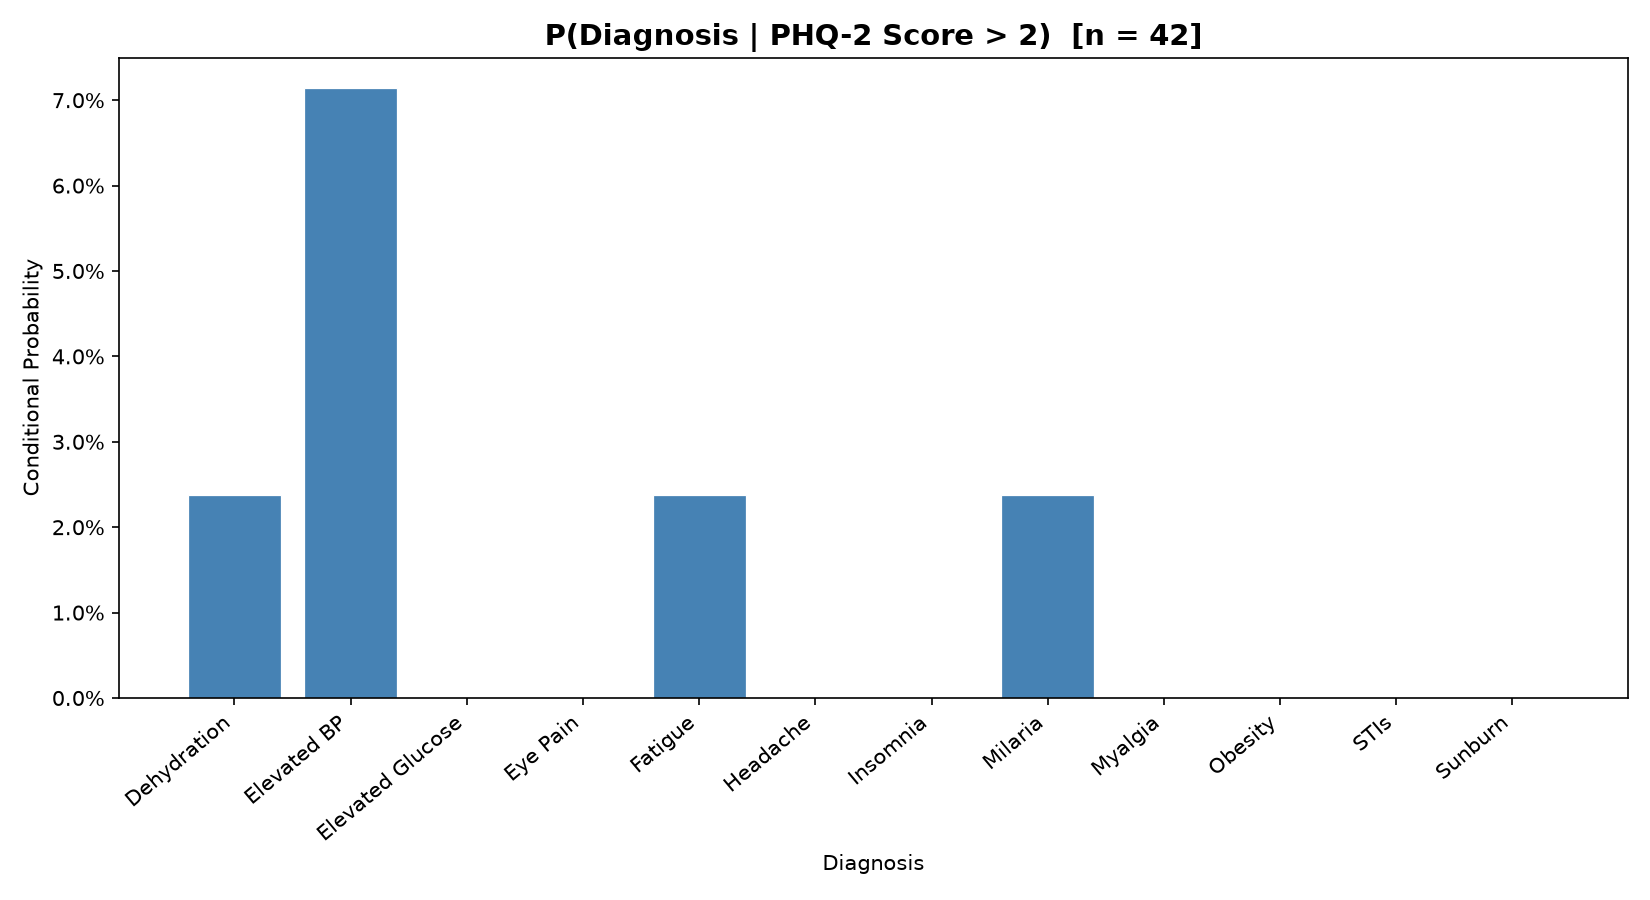
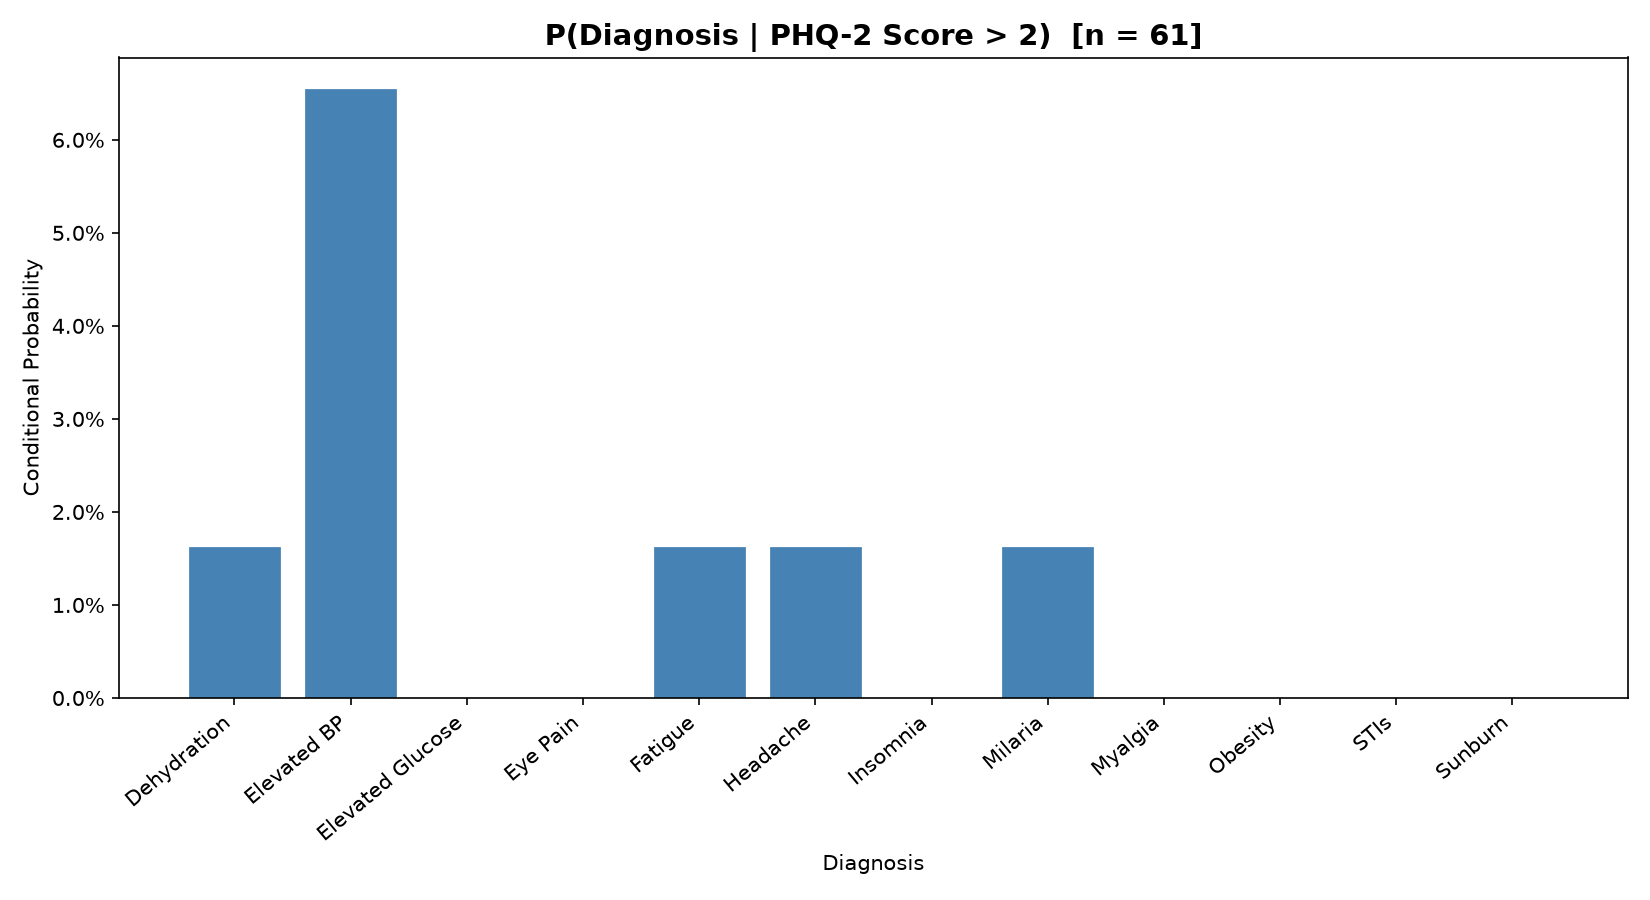
Update slide deck for the weighted, age-matched analysis
Refresh every figure in slides.html to the current 2024-2026 adult (18+)
dataset and regenerate the care-gap and co-occurrence charts:

- FWFHP positives 42 -> 61 (3.2% of 1,889 adults); negatives 1,828.
- NHANES comparison now survey-weighted: 13.9% (was 13.0% unweighted),
  OR 0.21 (95% CI 0.155-0.275), design-aware z = -10.75, p = 5.7e-27.
- Care gap: 59/61 never diagnosed (96.7%), rate 3.3% (CI 0.4-11.3%).
- Diagnosis table: reflect the 5 mood/anxiety dx now in the cohort.
- Co-occurrence captions/ORs and regression table updated (n=61 vs 1,835;
  Male OR 0.33, p=0.002; N=1,827; JR Baker added; Transgender excluded).
- Corrected NHANES cycle label (L files = 2021-2023, not 2023-24) and
  bumped deck date to July 2026.

diff --git a/slides.html b/slides.html
@@ -3,7 +3,7 @@
 <head>
     <meta charset="UTF-8">
     <meta name="viewport" content="width=device-width, initial-scale=1.0">
-    <title>FWFHP — PHQ-2 Screening Analysis, June 2026</title>
+    <title>FWFHP — PHQ-2 Screening Analysis, July 2026</title>
     <link rel="preconnect" href="https://fonts.googleapis.com">
     <link href="https://fonts.googleapis.com/css2?family=Lora:ital,wght@0,400;0,600;0,700;1,400;1,600&family=Jost:wght@300;400;500;600&display=swap" rel="stylesheet">
     <style>
@@ -581,10 +581,10 @@ img, video, canvas, svg { max-width: 100%; max-height: 100%; }
     <p class="t-kicker reveal">Farm Worker Family Health Program</p>
     <div class="t-rule reveal"></div>
     <h1 class="reveal">PHQ-2 Mental Health<br>Screening Analysis</h1>
-    <p class="t-subtitle reveal">Night Camp Data &mdash; June 2026</p>
+    <p class="t-subtitle reveal">Night Camp Data &mdash; July 2026</p>
     <div class="t-pills reveal">
-        <span class="t-pill">n&nbsp;=&nbsp;1,501 patients</span>
-        <span class="t-pill">NHANES 2023–24 Hispanic Reference</span>
+        <span class="t-pill">n&nbsp;=&nbsp;2,074 records &middot; 1,889 adults</span>
+        <span class="t-pill">NHANES 2021–23 Hispanic Reference</span>
         <span class="t-pill">FWFHP Program &middot; Moultrie, GA</span>
     </div>
 </section>
@@ -606,8 +606,8 @@ img, video, canvas, svg { max-width: 100%; max-height: 100%; }
                 <div class="context-bullets">
                     <p class="context-bullet"><strong>FWFHP</strong> is a night clinic serving migrant farmworkers in Moultrie, GA — a population with limited access to routine healthcare</p>
                     <p class="context-bullet">The <strong>PHQ-2</strong> is a two-question depression screening tool. A score &gt; 2 is the clinical threshold for possible depressive symptoms</p>
-                    <p class="context-bullet">Clinical data was collected via <strong>REDCap</strong> from 1,501 patients across 8 farm camps during the 2026 season</p>
-                    <p class="context-bullet"><strong>NHANES 2023–24</strong> provides a national Hispanic reference cohort (n&nbsp;=&nbsp;1,095) for comparison</p>
+                    <p class="context-bullet">Clinical data was collected via <strong>REDCap</strong> from 2,074 records (1,889 adults) across 9 farm camps over the 2024–2026 seasons</p>
+                    <p class="context-bullet"><strong>NHANES 2021–23</strong> provides a national Hispanic-adult reference (n&nbsp;=&nbsp;912 screened), survey-weighted for comparison</p>
                 </div>
             </div>
             <div class="context-col reveal">
@@ -625,7 +625,7 @@ img, video, canvas, svg { max-width: 100%; max-height: 100%; }
         </div>
     </div>
     <footer class="slide-footer">
-        <span>Farm Worker Family Health Program &middot; PHQ-2 Screening Analysis &middot; June 2026</span>
+        <span>Farm Worker Family Health Program &middot; PHQ-2 Screening Analysis &middot; July 2026</span>
         <div class="progress-bar" style="width:8%"></div>
     </footer>
 </section>
@@ -644,21 +644,21 @@ img, video, canvas, svg { max-width: 100%; max-height: 100%; }
         <div class="stat-row">
             <div class="stat-card red reveal">
                 <p class="sc-label">Positive Screen &mdash; PHQ-2 &gt; 2</p>
-                <p class="sc-num">42</p>
-                <p class="sc-pct">2.8% of patients</p>
+                <p class="sc-num">61</p>
+                <p class="sc-pct">3.2% of adults</p>
                 <p class="sc-desc">Screened positive for<br>depressive symptoms</p>
             </div>
             <div class="stat-vs reveal"></div>
             <div class="stat-card blue reveal">
                 <p class="sc-label">Negative Screen &mdash; PHQ-2 &le; 2</p>
-                <p class="sc-num">1,459</p>
-                <p class="sc-pct">97.2% of patients</p>
+                <p class="sc-num">1,828</p>
+                <p class="sc-pct">96.8% of adults</p>
                 <p class="sc-desc">Below the clinical<br>concern threshold</p>
             </div>
         </div>
     </div>
     <footer class="slide-footer">
-        <span>Farm Worker Family Health Program &middot; PHQ-2 Screening Analysis &middot; June 2026</span>
+        <span>Farm Worker Family Health Program &middot; PHQ-2 Screening Analysis &middot; July 2026</span>
         <div class="progress-bar" style="width:15%"></div>
     </footer>
 </section>
@@ -676,29 +676,29 @@ img, video, canvas, svg { max-width: 100%; max-height: 100%; }
     <div class="slide-body">
         <div class="nhanes-grid">
             <div class="chart-wrap reveal">
-                <img src="charts/chart_nhanes_ci.png" alt="Bar chart with 95% CI error bars comparing PHQ-2 positive rate: FWFHP 2.8% vs NHANES Hispanic 13.0%">
+                <img src="charts/chart_nhanes_ci.png" alt="Bar chart with 95% CI error bars comparing PHQ-2 positive rate: FWFHP 3.2% vs NHANES Hispanic adults 13.9% (survey-weighted)">
             </div>
             <div class="nhanes-sidebar">
                 <div class="stat-chip highlight reveal">
                     <p class="chip-label">Odds Ratio</p>
-                    <p class="chip-val">0.193</p>
-                    <p class="chip-sub">95% CI: 0.136 – 0.275</p>
+                    <p class="chip-val">0.21</p>
+                    <p class="chip-sub">95% CI: 0.155 – 0.275</p>
                 </div>
                 <div class="stat-chip reveal">
                     <p class="chip-label">Significance</p>
-                    <p class="chip-val">p = 2.0 &times; 10<sup>&minus;23</sup></p>
-                    <p class="chip-sub">Two-proportion z-test, z = &minus;9.97</p>
+                    <p class="chip-val">p = 5.7 &times; 10<sup>&minus;27</sup></p>
+                    <p class="chip-sub">Design-aware z-test, z = &minus;10.75</p>
                 </div>
                 <div class="stat-chip reveal">
                     <p class="chip-label">Interpretation</p>
-                    <p class="chip-val" style="font-size:26px;color:var(--text-primary)">~5&times; less likely</p>
-                    <p class="chip-sub">FWFHP patients screen positive at far lower rates than the national Hispanic average (2.8% vs. 13.0%)</p>
+                    <p class="chip-val" style="font-size:26px;color:var(--text-primary)">~5&times; lower odds</p>
+                    <p class="chip-sub">FWFHP adults screen positive at far lower rates than the survey-weighted national Hispanic-adult average (3.2% vs. 13.9%)</p>
                 </div>
             </div>
         </div>
     </div>
     <footer class="slide-footer">
-        <span>Farm Worker Family Health Program &middot; PHQ-2 Screening Analysis &middot; June 2026</span>
+        <span>Farm Worker Family Health Program &middot; PHQ-2 Screening Analysis &middot; July 2026</span>
         <div class="progress-bar" style="width:23%"></div>
     </footer>
 </section>
@@ -716,24 +716,24 @@ img, video, canvas, svg { max-width: 100%; max-height: 100%; }
     <div class="slide-body">
         <div class="caregap-grid">
             <div class="caregap-img-wrap reveal" style="display:flex;align-items:center;">
-                <img src="charts/chart_care_gap.png" alt="Stacked bar showing 41 of 42 PHQ-2 positive patients never received a formal mental health diagnosis" style="max-height:340px;max-width:100%;border-radius:8px;box-shadow:0 4px 20px rgba(0,0,0,0.08);">
+                <img src="charts/chart_care_gap.png" alt="Stacked bar showing 59 of 61 PHQ-2 positive patients never received a formal mental health diagnosis" style="max-height:340px;max-width:100%;border-radius:8px;box-shadow:0 4px 20px rgba(0,0,0,0.08);">
             </div>
             <div class="caregap-sidebar">
                 <div class="big-stat reveal">
-                    <p class="bs-num">97.6%</p>
+                    <p class="bs-num">96.7%</p>
                     <p class="bs-label">of PHQ-2 positive patients<br>never formally diagnosed</p>
                 </div>
                 <div class="insight-box reveal">
-                    <p>41 of 42 patients who screened positive for depression received <strong>no mental health diagnosis</strong> — despite a clinical trigger on the PHQ-2.</p>
+                    <p>59 of 61 patients who screened positive for depression received <strong>no mental health diagnosis</strong> — despite a clinical trigger on the PHQ-2.</p>
                 </div>
                 <div class="insight-box reveal" style="border-left-color:var(--text-muted);">
-                    <p>Formal diagnosis rate: <strong>2.4%</strong><br><span style="color:var(--text-secondary);font-size:19px;">(95% CI: 0.1% – 12.6%, Clopper-Pearson)</span></p>
+                    <p>Formal diagnosis rate: <strong>3.3%</strong><br><span style="color:var(--text-secondary);font-size:19px;">(95% CI: 0.4% – 11.3%, Clopper-Pearson)</span></p>
                 </div>
             </div>
         </div>
     </div>
     <footer class="slide-footer">
-        <span>Farm Worker Family Health Program &middot; PHQ-2 Screening Analysis &middot; June 2026</span>
+        <span>Farm Worker Family Health Program &middot; PHQ-2 Screening Analysis &middot; July 2026</span>
         <div class="progress-bar" style="width:31%"></div>
     </footer>
 </section>
@@ -741,10 +741,10 @@ img, video, canvas, svg { max-width: 100%; max-height: 100%; }
 <!-- ======================================================
      SLIDE 6 — DEPRESSION & ANXIETY DIAGNOSES TABLE
      ====================================================== -->
-<section class="slide" aria-label="Depression and anxiety diagnosis counts across all 1,501 patients">
+<section class="slide" aria-label="Depression and anxiety diagnosis counts across all 1,896 screened patients">
     <header class="slide-header">
         <span class="wordmark">FWFHP</span>
-        <h2 class="slide-title">Depression &amp; Anxiety Diagnoses Recorded (N&nbsp;=&nbsp;1,501)</h2>
+        <h2 class="slide-title">Depression &amp; Anxiety Diagnoses Recorded (N&nbsp;=&nbsp;1,896)</h2>
         <span class="slide-num">06 / 13</span>
     </header>
     <div class="header-rule"></div>
@@ -764,11 +764,11 @@ img, video, canvas, svg { max-width: 100%; max-height: 100%; }
                     </tr>
                     <tr>
                         <td>F32.1 — Moderate Major Depressive Disorder</td>
-                        <td class="count c0">0</td>
+                        <td class="count c1">2</td>
                     </tr>
                     <tr>
                         <td>F32.2 — Severe Major Depressive Disorder</td>
-                        <td class="count c0">0</td>
+                        <td class="count c1">1</td>
                     </tr>
                     <tr>
                         <td>F32.0 — MDD with Psychotic Features</td>
@@ -776,17 +776,17 @@ img, video, canvas, svg { max-width: 100%; max-height: 100%; }
                     </tr>
                     <tr>
                         <td>F41.1 — Generalized Anxiety Disorder</td>
-                        <td class="count c0">0</td>
+                        <td class="count c1">1</td>
                     </tr>
                 </tbody>
             </table>
         </div>
         <p class="reveal" style="font-family:var(--font-body);font-size:22px;font-weight:300;font-style:italic;color:var(--text-muted);margin-top:36px;text-align:center;">
-            42 patients screened positive for depressive symptoms. Only 1 was formally diagnosed. Among the 1,459 who screened negative: zero diagnoses.
+            61 patients screened positive for depressive symptoms; only 2 were formally diagnosed (1 mild, 1 moderate MDD). Just 5 depression/anxiety diagnoses appear in the entire cohort of 1,896.
         </p>
     </div>
     <footer class="slide-footer">
-        <span>Farm Worker Family Health Program &middot; PHQ-2 Screening Analysis &middot; June 2026</span>
+        <span>Farm Worker Family Health Program &middot; PHQ-2 Screening Analysis &middot; July 2026</span>
         <div class="progress-bar" style="width:38%"></div>
     </footer>
 </section>
@@ -818,7 +818,7 @@ img, video, canvas, svg { max-width: 100%; max-height: 100%; }
         </div>
     </div>
     <footer class="slide-footer">
-        <span>Farm Worker Family Health Program &middot; PHQ-2 Screening Analysis &middot; June 2026</span>
+        <span>Farm Worker Family Health Program &middot; PHQ-2 Screening Analysis &middot; July 2026</span>
         <div class="progress-bar" style="width:46%"></div>
     </footer>
 </section>
@@ -838,11 +838,11 @@ img, video, canvas, svg { max-width: 100%; max-height: 100%; }
             <div class="chart-wrap reveal">
                 <img src="charts/chart1_p_high_phq2.png" alt="Bar chart: conditional probability of each physical diagnosis among the 42 patients with PHQ-2 greater than 2">
             </div>
-            <p class="chart-caption reveal">Conditional probability of each physical diagnosis among the <strong>42 patients</strong> who screened positive (PHQ-2 &gt; 2). Elevated BP is the most common co-occurring condition at 7.1%.</p>
+            <p class="chart-caption reveal">Conditional probability of each physical diagnosis among the <strong>61 patients</strong> who screened positive (PHQ-2 &gt; 2). Elevated BP is the most common co-occurring condition at 6.6%.</p>
         </div>
     </div>
     <footer class="slide-footer">
-        <span>Farm Worker Family Health Program &middot; PHQ-2 Screening Analysis &middot; June 2026</span>
+        <span>Farm Worker Family Health Program &middot; PHQ-2 Screening Analysis &middot; July 2026</span>
         <div class="progress-bar" style="width:54%"></div>
     </footer>
 </section>
@@ -863,14 +863,14 @@ img, video, canvas, svg { max-width: 100%; max-height: 100%; }
                 <img src="charts/chart2_comparison.png" alt="Grouped bar chart comparing conditional probability of each diagnosis between PHQ-2 above 2 and PHQ-2 at or below 2">
             </div>
             <p class="chart-caption reveal">
-                <span style="color:var(--accent-red);font-style:normal;font-weight:500;">Red = PHQ-2 &gt; 2 (n=42)</span> &nbsp;&middot;&nbsp;
-                <span style="color:var(--accent-blue);font-style:normal;font-weight:500;">Blue = PHQ-2 &le; 2 (n=1,356)</span> &nbsp;&middot;&nbsp;
+                <span style="color:var(--accent-red);font-style:normal;font-weight:500;">Red = PHQ-2 &gt; 2 (n=61)</span> &nbsp;&middot;&nbsp;
+                <span style="color:var(--accent-blue);font-style:normal;font-weight:500;">Blue = PHQ-2 &le; 2 (n=1,835)</span> &nbsp;&middot;&nbsp;
                 No diagnosis reached statistical significance after Benjamini-Hochberg FDR correction — results are hypothesis-generating.
             </p>
         </div>
     </div>
     <footer class="slide-footer">
-        <span>Farm Worker Family Health Program &middot; PHQ-2 Screening Analysis &middot; June 2026</span>
+        <span>Farm Worker Family Health Program &middot; PHQ-2 Screening Analysis &middot; July 2026</span>
         <div class="progress-bar" style="width:62%"></div>
     </footer>
 </section>
@@ -892,16 +892,16 @@ img, video, canvas, svg { max-width: 100%; max-height: 100%; }
             </div>
             <div class="or-strip reveal">
                 <span class="or-label">Descriptive ORs</span>
-                <span class="or-item"><strong>Miliaria 5.49</strong></span>
-                <span class="or-item"><strong>Dehydration 3.65</strong></span>
-                <span class="or-item"><strong>Elevated BP 2.90</strong></span>
-                <span class="or-item"><strong>Fatigue 2.18</strong></span>
-                <span class="or-note">None survive FDR correction (all raw p &gt; 0.10; n=42 positive group underpowered). Treat as hypothesis-generating.</span>
+                <span class="or-item"><strong>Miliaria 3.81</strong></span>
+                <span class="or-item"><strong>Dehydration 3.04</strong></span>
+                <span class="or-item"><strong>Headache 2.76</strong></span>
+                <span class="or-item"><strong>Elevated BP 2.41</strong></span>
+                <span class="or-note">None survive FDR correction (all raw p &ge; 0.10; n=61 positive group underpowered). Treat as hypothesis-generating.</span>
             </div>
         </div>
     </div>
     <footer class="slide-footer">
-        <span>Farm Worker Family Health Program &middot; PHQ-2 Screening Analysis &middot; June 2026</span>
+        <span>Farm Worker Family Health Program &middot; PHQ-2 Screening Analysis &middot; July 2026</span>
         <div class="progress-bar" style="width:69%"></div>
     </footer>
 </section>
@@ -922,14 +922,14 @@ img, video, canvas, svg { max-width: 100%; max-height: 100%; }
                 <img src="charts/chart4_counts.png" alt="Grouped bar chart of raw diagnosis counts split by PHQ-2 group">
             </div>
             <p class="chart-caption reveal">
-                <span style="color:var(--accent-red);font-style:normal;font-weight:500;">Red = PHQ-2 &gt; 2 (n=42)</span> &nbsp;&middot;&nbsp;
-                <span style="color:var(--accent-blue);font-style:normal;font-weight:500;">Blue = PHQ-2 &le; 2 (n=1,356)</span> &nbsp;&middot;&nbsp;
+                <span style="color:var(--accent-red);font-style:normal;font-weight:500;">Red = PHQ-2 &gt; 2 (n=61)</span> &nbsp;&middot;&nbsp;
+                <span style="color:var(--accent-blue);font-style:normal;font-weight:500;">Blue = PHQ-2 &le; 2 (n=1,835)</span> &nbsp;&middot;&nbsp;
                 The scale disparity between groups reflects the small positive cohort — ORs are more informative than raw counts here.
             </p>
         </div>
     </div>
     <footer class="slide-footer">
-        <span>Farm Worker Family Health Program &middot; PHQ-2 Screening Analysis &middot; June 2026</span>
+        <span>Farm Worker Family Health Program &middot; PHQ-2 Screening Analysis &middot; July 2026</span>
         <div class="progress-bar" style="width:77%"></div>
     </footer>
 </section>
@@ -951,24 +951,24 @@ img, video, canvas, svg { max-width: 100%; max-height: 100%; }
             </div>
             <div class="forest-sidebar">
                 <p class="fs-meta reveal">
-                    Logistic regression<br>
-                    Predictors: Camp, Age, Gender, Drug Use<br>
+                    Logistic regression (adults 18+)<br>
+                    Predictors: Camp, Age, Gender, Drug Screen<br>
                     Reference: <strong>Garcia Farms</strong> &middot; Log-scale x-axis<br>
-                    N&nbsp;=&nbsp;1,334 &middot; 3R Harvesting excluded (perfect separation)
+                    N&nbsp;=&nbsp;1,827 &middot; 3R Harvesting &amp; Transgender excluded (separation)
                 </p>
                 <div class="finding-card sig reveal">
-                    <h4>Significant &mdash; p&nbsp;=&nbsp;0.003</h4>
-                    <p><strong>Gender: Male &mdash; OR&nbsp;=&nbsp;0.31</strong><br>Males are significantly less likely to screen positive (approximately 3&times; less likely than females).</p>
+                    <h4>Significant &mdash; p&nbsp;=&nbsp;0.002</h4>
+                    <p><strong>Gender: Male &mdash; OR&nbsp;=&nbsp;0.33</strong><br>Males are significantly less likely to screen positive (approximately 3&times; less likely than females).</p>
                 </div>
                 <div class="finding-card null reveal">
                     <h4>Not Significant</h4>
-                    <p>Camp, age, and drug use screen status were not statistically significant predictors of PHQ-2 positivity.</p>
+                    <p>Camp, age, and drug-screen result were not statistically significant predictors of PHQ-2 positivity.</p>
                 </div>
             </div>
         </div>
     </div>
     <footer class="slide-footer">
-        <span>Farm Worker Family Health Program &middot; PHQ-2 Screening Analysis &middot; June 2026</span>
+        <span>Farm Worker Family Health Program &middot; PHQ-2 Screening Analysis &middot; July 2026</span>
         <div class="progress-bar" style="width:88%"></div>
     </footer>
 </section>
@@ -995,22 +995,23 @@ img, video, canvas, svg { max-width: 100%; max-height: 100%; }
             </thead>
             <tbody>
                 <tr class="group-header"><td colspan="4">Camp (vs. Garcia Farms)</td></tr>
-                <tr><td>Hamilton Farm</td><td>1.50</td><td>0.50 – 4.51</td><td>0.475</td></tr>
-                <tr><td>L&amp;M</td><td>3.11</td><td>0.74 – 13.08</td><td>0.121</td></tr>
-                <tr><td>Lewis Taylor</td><td>1.25</td><td>0.27 – 5.83</td><td>0.775</td></tr>
-                <tr><td>Rodriguez</td><td>0.75</td><td>0.16 – 3.43</td><td>0.711</td></tr>
-                <tr><td>Sharon Church</td><td>0.23</td><td>0.03 – 2.13</td><td>0.196</td></tr>
-                <tr><td>Terry Baker</td><td>0.62</td><td>0.07 – 5.88</td><td>0.680</td></tr>
+                <tr><td>Hamilton Farm</td><td>1.02</td><td>0.42 – 2.46</td><td>0.963</td></tr>
+                <tr><td>JR Baker</td><td>3.33</td><td>0.91 – 12.23</td><td>0.070</td></tr>
+                <tr><td>L&amp;M</td><td>2.58</td><td>0.83 – 7.99</td><td>0.100</td></tr>
+                <tr><td>Lewis Taylor</td><td>0.84</td><td>0.21 – 3.34</td><td>0.801</td></tr>
+                <tr><td>Rodriguez</td><td>0.39</td><td>0.11 – 1.35</td><td>0.136</td></tr>
+                <tr><td>Sharon Church</td><td>0.17</td><td>0.02 – 1.39</td><td>0.098</td></tr>
+                <tr><td>Terry Baker</td><td>2.26</td><td>0.77 – 6.63</td><td>0.137</td></tr>
                 <tr class="group-header"><td colspan="4">Individual Predictors</td></tr>
-                <tr><td>Age (per year)</td><td>0.98</td><td>0.94 – 1.02</td><td>0.342</td></tr>
-                <tr class="sig-row"><td>Gender: Male vs. Female</td><td>0.31</td><td>0.14 – 0.68</td><td><strong>0.003</strong></td></tr>
-                <tr><td>Drug Use Screen: Yes vs. No</td><td>0.63</td><td>0.32 – 1.21</td><td>0.165</td></tr>
+                <tr><td>Age (per year)</td><td>1.00</td><td>0.97 – 1.03</td><td>0.990</td></tr>
+                <tr class="sig-row"><td>Gender: Male vs. Female</td><td>0.33</td><td>0.17 – 0.67</td><td><strong>0.002</strong></td></tr>
+                <tr><td>Positive Drug Screen: Yes vs. No</td><td>0.86</td><td>0.20 – 3.66</td><td>0.833</td></tr>
             </tbody>
         </table>
-        <p class="reg-note reveal">Reference: Garcia Farms &middot; N&nbsp;=&nbsp;1,334 &middot; 3R Harvesting excluded (zero PHQ-2 &gt; 2 cases — perfect separation) &middot; Pseudo R²&nbsp;=&nbsp;0.057</p>
+        <p class="reg-note reveal">Reference: Garcia Farms &middot; adults 18+ &middot; N&nbsp;=&nbsp;1,827 &middot; 3R Harvesting (zero PHQ-2 &gt; 2 cases) &amp; Transgender excluded for separation &middot; Pseudo R²&nbsp;=&nbsp;0.057</p>
     </div>
     <footer class="slide-footer">
-        <span>Farm Worker Family Health Program &middot; PHQ-2 Screening Analysis &middot; June 2026</span>
+        <span>Farm Worker Family Health Program &middot; PHQ-2 Screening Analysis &middot; July 2026</span>
         <div class="progress-bar" style="width:100%"></div>
     </footer>
 </section>
